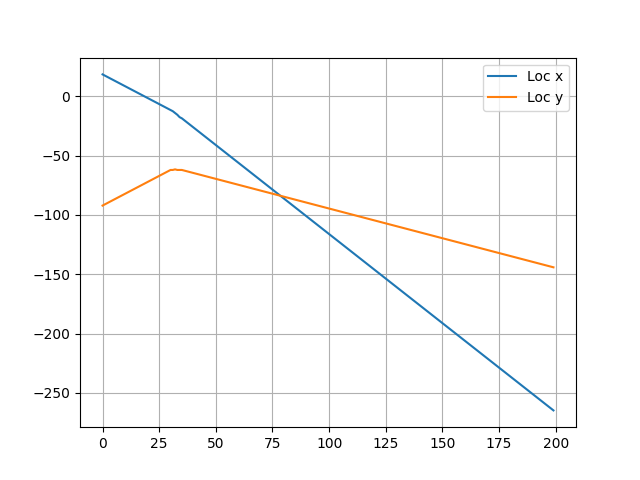
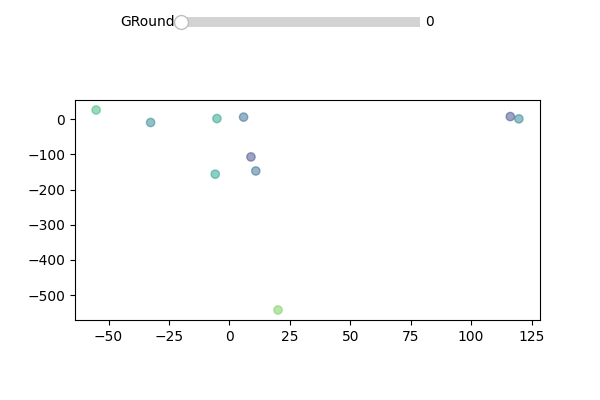
update location visualization - tested

diff --git a/examples/plot_synthetic.py b/examples/plot_synthetic.py
@@ -1,5 +1,7 @@
 import re 
+from matplotlib.animation import FuncAnimation
 import matplotlib.pyplot as plt
+from matplotlib.widgets import Slider 
 import numpy as np 
 
 def parse_fedl(file_name): 
@@ -55,7 +57,7 @@ def parse_net_tien(file_name):
     t_co, t_cp, e_co, e_cp = [], [], [], []
 
     for line in open(file_name, 'r'):
-        search_time = re.search(r'At round (.*) t_co: (.*) t_cp: (.*)', line, re.M|re.I)
+        search_time = re.search(r'At round (.*) average t_co: (.*) average t_cp: (.*)', line, re.M|re.I)
         if search_time: 
             t_co.append(float(search_time.group(2)))
             t_cp.append(float(search_time.group(3)))  
@@ -70,28 +72,39 @@ def parse_net_tien(file_name):
 def parse_gains(file_name): 
     uav_gains, bs_gains = [], []
     for line in open(file_name, 'r'): 
-        search_uav = re.search(r'uav_gains_db_mean: (.*)$', line, re.M|re.I)
-        if search_uav: 
-            uav_gains.append(float(search_uav.group(1)))
+        search_uav = re.search(r'uav_gains = \[(.*)\]$', line, re.M|re.I)
+        if search_uav:
+            gain = np.fromstring(search_uav.group(1), sep=' ')
+            gain_db_mean = 10 * np.log10(gain).mean()
+            uav_gains.append(gain_db_mean)
         
-        search_bs = re.search(r'bs_gains_db_mean: (.*)$', line, re.M|re.I)
+        search_bs = re.search(r'bs_gains = \[(.*)\]$', line, re.M|re.I)
         if search_bs: 
-            bs_gains.append(float(search_bs.group(1)))
+            gain = np.fromstring(search_bs.group(1), sep=' ')
+            gain_db_mean = 10 * np.log10(gain).mean()
+            bs_gains.append(gain_db_mean)  
     
     return uav_gains, bs_gains
 
 def parse_location(file_name): 
     xs, ys = [], []
+
     for line in open(file_name, 'r'): 
-        search_xs = re.search(r'xs mean: (.*)$', line, re.M|re.I)
+        search_xs = re.search(r'xs = \[(.*)\]', line, re.M|re.I)
         if search_xs: 
-            xs.append(float(search_xs.group(1)))
+            x = np.fromstring(search_xs.group(1), sep=' ')
+            xs.append(x)
         
-        search_ys = re.search(r'ys mean: (.*)$', line, re.M|re.I)
+        search_ys = re.search(r'ys = \[(.*)\]', line, re.M|re.I)
         if search_ys: 
-            ys.append(float(search_ys.group(1)))
+            y = np.fromstring(search_ys.group(1), sep=' ')
+            ys.append(y)
     
-    return xs, ys  
+
+    # convert to numpy array 
+    xs_np = np.array(xs) # (num_grounds, num_users)
+    ys_np = np.array(ys) # (num_grounds, num_users)
+    return xs_np, ys_np 
 
 def plot_fedl(log_file, fig_file): 
     rounds, acc, loss, sim, test_loss = parse_fedl(log_file)
@@ -174,19 +187,63 @@ def plot_gains():
     plt.savefig('./figures/channel_gains.png')
     plt.show()
 
-def plot_location(): 
-    loc_x, loc_y = parse_location('./logs/system_model.log')
-    rounds = np.arange(0, len(loc_x))
+def plot_location_act(): 
+    xs, ys = parse_location('./logs/system_model.log') # (num_grounds, num_users)
+    num_grounds, num_users = xs.shape
 
-    plt.figure(1)
-    # plt.plot(loc_x, loc_y, label='(x, y)')
-    plt.plot(rounds, loc_x, label='Loc x')
-    plt.plot(rounds, loc_y, label='Loc y')
-    plt.grid(visible=True, which='both')
-    plt.legend()
+    fig = plt.figure(figsize=(6, 4))
 
-    plt.savefig('./figures/locations.png')
+    ax = fig.add_subplot(111) 
+    fig.subplots_adjust(top=0.85) # 0.25 top to place sliders 
+
+    # Create axes for sliders 
+    ax_rounds = fig.add_axes([0.3, 0.92, 0.4, 0.05])
+    ax_rounds.spines['top'].set_visible(True)
+    ax_rounds.spines['right'].set_visible(True)
+
+    # Create sliders 
+    s_rounds = Slider(ax=ax_rounds, label='GRound', valmin=0, valmax=num_grounds-1, valfmt='%0.0f', facecolor='#cc7000')
+
+    colors = plt.get_cmap('viridis', num_users)(np.linspace(0.2, 0.7, num_users))
+    # labels = [f'user {i}' for i in range(num_users)]
+    
+    # Plot default data
+    sc = ax.scatter(xs[0], ys[0], c=colors, alpha=0.5)
+    ax.set_xlim(-1200,1200)
+    ax.set_ylim(-2000, 1200)
+    ax.grid(True, 'both')
+
+    # Update values 
+    def update(round):
+        sc.set_offsets(np.c_[xs[int(round)], ys[int(round)]])
+        fig.canvas.draw_idle()
+
+    s_rounds.on_changed(update)
+    # plt.savefig('./figures/locations.png')
     plt.show()
+
+def plot_location_ani(): 
+    xs, ys = parse_location('./logs/system_model.log') # (num_grounds, num_users)
+    num_grounds, num_users = xs.shape
+
+    colors = plt.get_cmap('viridis', num_users)(np.linspace(0.2, 0.7, num_users))
+    # labels = [f'user {i}' for i in range(num_users)]
+
+    fig, ax = plt.subplots()
+    sc = ax.scatter(xs[0], ys[0], c=colors)
+    plt.xlim(-1200,1200)
+    plt.ylim(-2000,1200)
+    plt.grid(True, 'both')
+
+    def animate(i):
+        sc.set_offsets(np.c_[xs[i], ys[i]])
+    ani = FuncAnimation(fig, animate, frames=num_grounds, interval=50, repeat=False) 
+    
+    # Ensure the entire plot is visible 
+    fig.tight_layout()
+
+    # Save and show animation
+    ani.save('./figures/location_ani.gif', writer='imagemagick', fps=18)
 
 def plot_tien(log_file, fig_file_time, fig_file_ene): 
     t_co, t_cp, e_co, e_cp = parse_net_tien(log_file)
@@ -228,15 +285,15 @@ def test_fixedi():
 
 def test_system_model(): 
     log_file = './logs/system_model.log'
-    fig_file_fedl = './figures/plot_synthetic_dy1.png'
-    fig_file_netopt = './figures/plot_synthetic_dy2.png'
-    plot_fedl(log_file, fig_file_fedl)
-    plot_netopt(log_file, fig_file_netopt)
-    # plot_gains()
+    # fig_file_fedl = './figures/plot_synthetic_dy1.png'
+    # fig_file_netopt = './figures/plot_synthetic_dy2.png'
+    # plot_fedl(log_file, fig_file_fedl)
+    # plot_netopt(log_file, fig_file_netopt)
+    plot_gains()
     # plot_location()
-    fig_file_time = './figures/plot_synthetic_time.png'
-    fig_file_ene = './figures/plot_synthetic_ene.png'
-    plot_tien(log_file, fig_file_time, fig_file_ene)
+    # fig_file_time = './figures/plot_synthetic_time.png'
+    # fig_file_ene = './figures/plot_synthetic_ene.png'
+    # plot_tien(log_file, fig_file_time, fig_file_ene)
 
 def test_server_model(): 
     log_file, fig_file = './logs/server_model.log', './figures/plot_synthetic.png'
@@ -290,7 +347,9 @@ def test_combine():
     plt.show()
 
 if __name__=='__main__': 
-    test_system_model()
+    # test_system_model()
+    # plot_location_ani()
+    plot_location_act()
     # test_fixedi()
     # test_server_model()
     # test_combine()

diff --git a/examples/network_optim.py b/examples/network_optim.py
@@ -396,7 +396,7 @@ class NetworkOptim:
         t_cp = self.calc_comp_time(num_lrounds, self.freqs).sum()   
         e_cp = self.calc_comp_energy(num_lrounds, self.freqs).sum()
 
-        print("At round {} t_co: {} t_cp: {}".format(ground, t_co/num_users, t_cp/num_users))
+        print("At round {} average t_co: {} average t_cp: {}".format(ground, t_co/num_users, t_cp/num_users))
         print("At round {} e_co: {} e_cp: {}".format(ground, e_co, e_cp))
         print("At round {} eta: {}".format(ground, eta))  
         print("At round {} a_n: {}".format(ground, self.an))
